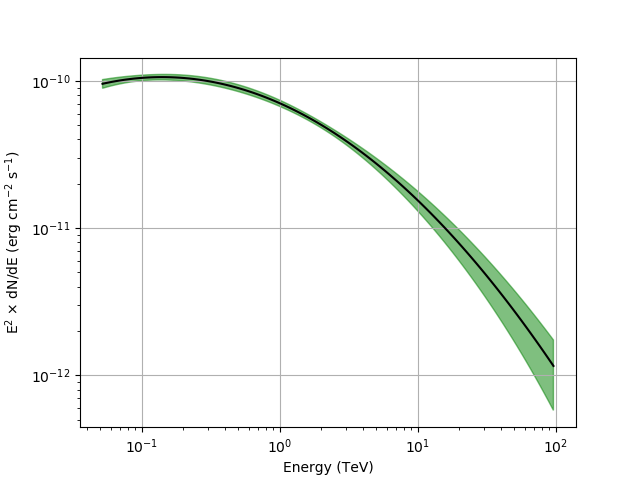
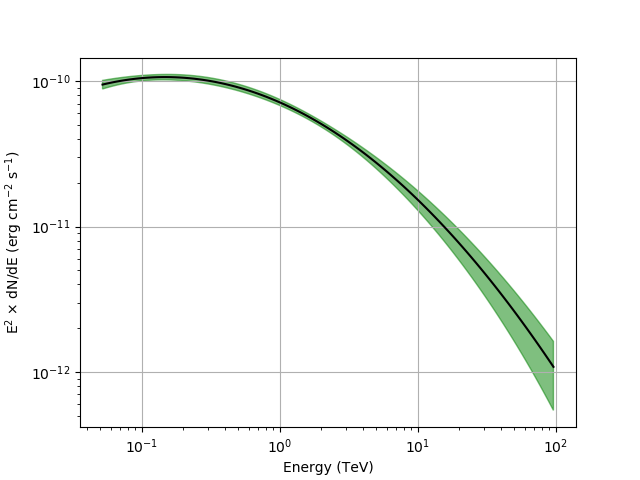
fixed broken links, updated Fermi analysis to P8R3 as in paper

diff --git a/doc/source/users/tutorials/hess_dr1/jointfermi.rst b/doc/source/users/tutorials/hess_dr1/jointfermi.rst
@@ -10,7 +10,7 @@ Joint analysis of H.E.S.S. and Fermi data
 
 In this tutorial you will learn how to jointly analyse data observed with
 H.E.S.S. and the Fermi-LAT. This follows the same procedure illustrated in
-`this section <../howto/howto_combine_instruments>`_.
+`this section <../howto/howto_combine_instruments.html>`_.
 
 Prepare Fermi-LAT data
 ^^^^^^^^^^^^^^^^^^^^^^
@@ -18,20 +18,20 @@ Prepare Fermi-LAT data
 For this tutorial you need to gather data for a source available in
 the H.E.S.S. public data release, the Crab nebula.
 The preparation of Fermi-LAT data can be adapted from
-`this section <..howto/howto_fermi_prepare>`_. Get Source Class LAT data from the
-Crab in the energy range 50-800 GeV. Apply a zenith angle cut at 105
+`this section <../howto/fermi/howto_fermi_prepare.html>`_. Get Source Class LAT data from the
+Crab in the energy range 50-1000 GeV. Apply a zenith angle cut at 105
 deg. Then bin them on a 60x60 pixel
 grid with 0.05 deg step, and on a logarithmic energy grid with 15 bins
-from 50 GeV to 800 GeV, and calculate livetime cube, exposure map, and
+from 50 GeV to 1 TeV, and calculate livetime cube, exposure map, and
 diffuse model source maps. The results shown here correspond to P8R3 LAT
 data covering the Fermi Mission Elapsed Time (MET) between 239557417 s
-and 565315205 s, analysed using the fermitools 1.0.3. To run the tutorial
+and 565315205 s, analysed using the fermitools 1.0.1. To run the tutorial
 faster you can select a shorter dataset. 
 
 Prepare H.E.S.S. data
 ^^^^^^^^^^^^^^^^^^^^^
 
-We will use the On/Off observations generated in `this section <classical>`_.
+We will use the On/Off observations generated in `this section <classical.html>`_.
 
 Combining the observations
 ^^^^^^^^^^^^^^^^^^^^^^^^^^
@@ -48,7 +48,7 @@ to combine the data for an analysis:
       <parameter name="CountsMap"    file="srcmaps.fits"/>
       <parameter name="ExposureMap"  file="expmap.fits"/>
       <parameter name="LiveTimeCube" file="ltcube.fits"/>
-      <parameter name="IRF"          value="P8R2_SOURCE_V6"/>
+      <parameter name="IRF"          value="P8R3_SOURCE_V2"/>
     </observation>
     <observation name="Crab" id="000002" instrument="HESSOnOff" statistic="wstat">
       <parameter name="Pha_on" file="onoff_stacked_pha_on.fits" />
@@ -95,12 +95,12 @@ The model that will be used in this analysis is shown below:
       <spectrum type="Constant">
         <parameter name="Normalization" scale="1.0" value="1.0" min="0.1" max="10.0" free="1"/>
       </spectrum>
-      <spatialModel type="DiffuseMapCube" file="gll_iem_v06.fits">
+      <spatialModel type="DiffuseMapCube" file="gll_iem_v07.fits">
         <parameter name="Normalization" scale="1.0" value="1.0" min="0.1" max="10.0" free="0"/>
       </spatialModel>
     </source>
     <source type="DiffuseSource" name="Isotropic_diffuse"  instrument="LAT">
-      <spectrum type="FileFunction" file="iso_P8R2_SOURCE_V6_v06.txt">
+      <spectrum type="FileFunction" file="iso_P8R2_SOURCE_V2_v1.txt">
         <parameter name="Normalization" scale="1.0" value="1.0" min="0.0" max="1000.0" free="0"/>
       </spectrum>
       <spatialModel type="DiffuseIsotropic">
@@ -124,9 +124,9 @@ Now you can fit the model to the data using  :ref:`ctlike`:
 		Input model definition XML file [] joint_models.xml
 		Output model definition XML file [] joint_results.xml
 
-The results are: prefactor (for 1 TeV pivot energy) (4.4±0.2)×10−11
+The results are: prefactor (for 1 TeV pivot energy) (4.5±0.2)×10−11
 photons cm−2 s−1 TeV−1, spectral index 2.42±0.04, and curvature
--0.106±0.018. They are broadly consistent with results from published
+-0.109±0.018. They are broadly consistent with results from published
 studies, e.g., `MAGIC collaboration (2015)
 <http://adsabs.harvard.edu/abs/2015JHEAp...5...30A>`_.
 We have used an energy threshold of 50 GeV to avoid contamination from
